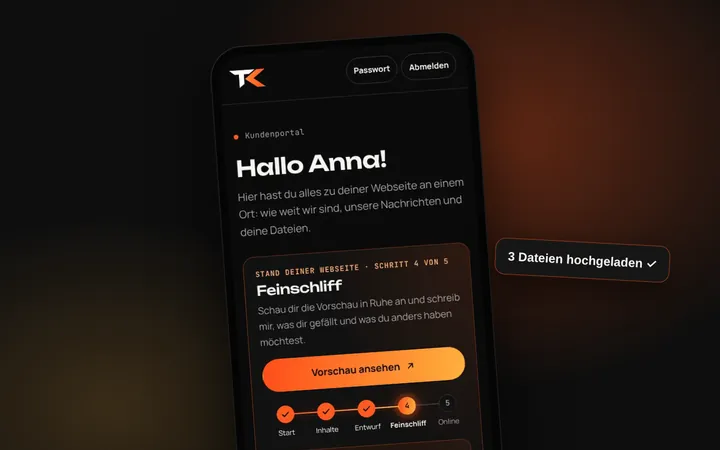
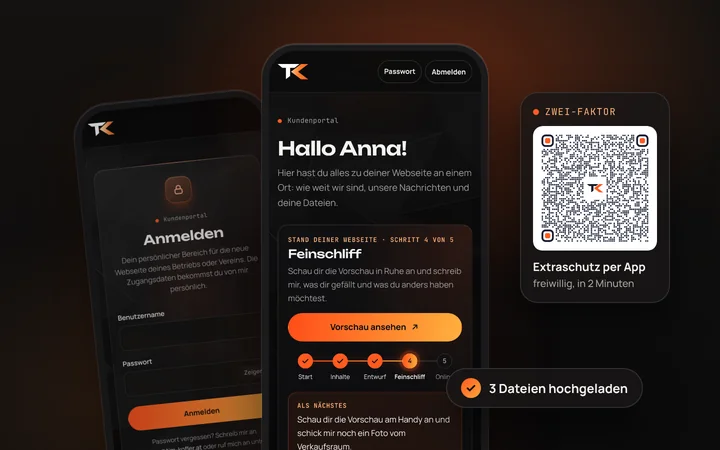
Startseite: neues Vorschaubild für das Kundenportal (Anmeldung, Projektstand, Zwei-Faktor-QR)
Frische Handy-Screenshots des aktuellen Portals mit dem erfundenen Beispielkunden,
als WebP, ?v=2 gegen den Cache. Skripte zum Neumachen in quellen/kundenportal-vorschau/.

Claude-Session: https://claude.ai/code/session_01DfWVMFxYcuoeafePNmQbjb

diff --git a/quellen/kundenportal-vorschau/vorschau.html b/quellen/kundenportal-vorschau/vorschau.html
@@ -1,0 +1,28 @@
+<!doctype html><html><head><meta charset="utf-8"><style>
+@font-face{font-family:M;src:url(/assets/fonts/manrope.woff2)}
+@font-face{font-family:J;src:url(/assets/fonts/jetbrains-mono.woff2)}
+*{box-sizing:border-box;margin:0}
+html,body{width:720px;height:450px;overflow:hidden;background:#0b0b0c}
+.st{position:relative;width:720px;height:450px;overflow:hidden;
+ background:radial-gradient(420px 300px at 62% 18%,rgba(255,90,31,.30),transparent 70%),radial-gradient(360px 260px at 18% 90%,rgba(255,140,60,.12),transparent 70%),linear-gradient(180deg,#141210,#0b0b0c)}
+.ph{position:absolute;border-radius:34px;background:#1a1a1c;padding:7px;box-shadow:0 0 0 1px rgba(255,255,255,.10),0 30px 60px rgba(0,0,0,.6),0 0 80px rgba(255,90,31,.10)}
+.ph img{display:block;width:100%;border-radius:27px}
+.ph::after{content:"";position:absolute;inset:0;border-radius:34px;box-shadow:inset 0 1px 0 rgba(255,255,255,.14);pointer-events:none}
+.p1{left:92px;top:96px;width:196px;transform:rotate(-6deg);opacity:.92;filter:saturate(.95) brightness(.85)}
+.p2{left:262px;top:44px;width:226px}
+.card{position:absolute;background:rgba(24,22,22,.82);backdrop-filter:blur(8px);border:1px solid rgba(255,255,255,.12);border-radius:18px;box-shadow:0 18px 40px rgba(0,0,0,.55);color:#f4f1ee;font-family:M}
+.qr{left:520px;top:92px;width:150px;padding:12px}
+.qr img{display:block;width:100%;border-radius:10px}
+.k{font-family:J;font-size:9.5px;letter-spacing:.08em;text-transform:uppercase;color:#ffb27a;margin-bottom:8px;display:flex;align-items:center;gap:6px}
+.k i{width:6px;height:6px;border-radius:50%;background:#ff5a1f;display:inline-block}
+.qr p{font-size:11.5px;font-weight:700;margin-top:9px;line-height:1.3}
+.qr small{display:block;font-size:10px;color:#a9a39d;font-weight:500;margin-top:2px}
+.chip{left:446px;top:368px;padding:9px 14px;font-size:12.5px;font-weight:700;display:flex;align-items:center;gap:8px;border-radius:999px}
+.chip b{width:20px;height:20px;border-radius:50%;background:linear-gradient(135deg,#ff5a1f,#ffa53a);display:grid;place-items:center}
+.chip b svg{width:12px;height:12px}
+</style></head><body><div class="st">
+<div class="ph p1"><img src="login.png"></div>
+<div class="ph p2"><img src="dash2.png"></div>
+<div class="card qr"><div class="k"><i></i>Zwei-Faktor</div><img src="qr.png"><p>Extraschutz per App<small>freiwillig, in 2 Minuten</small></p></div>
+<div class="card chip"><b><svg viewBox="0 0 24 24" fill="none" stroke="#1a0d05" stroke-width="3.2" stroke-linecap="round" stroke-linejoin="round"><path d="M5 12.5l4.5 4.5L19 7.5"/></svg></b>3 Dateien hochgeladen</div>
+</div></body></html>

diff --git a/quellen/kundenportal-vorschau/shots.js b/quellen/kundenportal-vorschau/shots.js
@@ -1,0 +1,25 @@
+// Screenshots fürs Vorschaubild: Anmeldung, Startansicht nach drei Uploads, QR-Code der Zwei-Faktor-Anmeldung. Aufruf: node shots.js <arbeitsordner>
+const { chromium } = require('/opt/node22/lib/node_modules/playwright');
+const B='http://localhost:8096', O=process.argv[2];
+(async()=>{
+ const b=await chromium.launch({args:['--no-proxy-server']});
+ const ctx=await b.newContext({viewport:{width:390,height:844},deviceScaleFactor:2,isMobile:true,hasTouch:true});
+ const p=await ctx.newPage();
+ await p.goto(B+'/kunden/'); await p.waitForLoadState('networkidle'); await p.waitForTimeout(1500);
+ await p.screenshot({path:O+'/login.png'});
+ await p.fill('input[name=benutzer]','baeckerei-muster'); await p.fill('input[name=passwort]','kornspitz-2026');
+ await p.click('button[type=submit]'); await p.waitForLoadState('networkidle');
+ await p.click('[data-kp-tab=dateien]'); await p.waitForTimeout(400);
+ await p.setInputFiles('.kp-pick input',[O+'/up/kornspitz.jpg',O+'/up/verkaufsraum.jpg',O+'/up/logo-baeckerei.png']);
+ await p.check('.kp-upload .form__check input').catch(()=>p.click('.kp-upload .form__check input'));
+ await p.click('.kp-upload button[type=submit]');
+ await p.waitForFunction(()=>!!document.querySelector('.form__status.is-ok'),null,{timeout:30000});
+ await p.goto(B+'/kunden/'); await p.waitForLoadState('networkidle'); await p.waitForTimeout(1500);
+ await p.screenshot({path:O+'/dash2.png'});
+ await p.click('[data-kp-tab=dateien]'); await p.waitForTimeout(500);
+ const tf=p.locator('#zweifaktor summary, #zweifaktor').first(); await tf.click().catch(()=>{}); await p.waitForTimeout(800);
+ await p.evaluate(()=>document.querySelectorAll('details').forEach(d=>{if(d.closest('#zweifaktor')||d.id==='zweifaktor')d.open=true})); await p.waitForTimeout(800);
+ const q=p.locator('.kp-qr').first(); await q.scrollIntoViewIfNeeded(); await p.waitForTimeout(500);
+ await q.screenshot({path:O+'/qr.png'});
+ await b.close();
+})();

diff --git a/webdesign/index.html b/webdesign/index.html
@@ -473,7 +473,7 @@
           <span class="tk-try__body"><span class="rule__k">Betriebs-Dashboard</span><b>Handwerksbetrieb</b><span class="tk-try__p">Aufträge, Plantafel, Stunden und Rechnungen in einem Fenster.</span><span class="tk-try__go">Ausprobieren <svg viewBox="0 0 24 24" fill="none" stroke="currentColor" stroke-width="2" stroke-linecap="round" stroke-linejoin="round" aria-hidden="true"><path d="M5 12h14M13 6l6 6-6 6"/></svg></span></span>
         </a></li>
         <li><a class="tk-try" href="/ablauf/#portal">
-          <span class="tk-try__shot"><span class="tk-ex__bar" aria-hidden="true"><i></i><i></i><i></i><span>tim-kofler.at/kunden</span></span><img src="/assets/img/apps/kundenportal.webp" alt="Kundenportal am Handy: Projektstand, Nachrichten und Uploads" width="720" height="450" loading="lazy"></span>
+          <span class="tk-try__shot"><span class="tk-ex__bar" aria-hidden="true"><i></i><i></i><i></i><span>tim-kofler.at/kunden</span></span><img src="/assets/img/apps/kundenportal.webp?v=2" alt="Kundenportal am Handy: Anmeldung, Projektstand, Zwei-Faktor-Schutz und Uploads" width="720" height="450" loading="lazy"></span>
           <span class="tk-try__body"><span class="rule__k">Login-Bereich</span><b>Mein Kundenportal</b><span class="tk-try__p">Hier sehen meine Kunden den Stand und laden Dateien hoch.</span><span class="tk-try__go">Ausprobieren <svg viewBox="0 0 24 24" fill="none" stroke="currentColor" stroke-width="2" stroke-linecap="round" stroke-linejoin="round" aria-hidden="true"><path d="M5 12h14M13 6l6 6-6 6"/></svg></span></span>
         </a></li>
         <li><a class="tk-try tk-tryr" href="/beispiele/pension/#buchen" data-tkr>

diff --git a/quellen/kundenportal-vorschau/render.js b/quellen/kundenportal-vorschau/render.js
@@ -1,0 +1,6 @@
+// Setzt vorschau.html (unter http://localhost:8096/_comp/) in doppelter Auflösung zusammen. Aufruf: node render.js comp2x.png
+const { chromium } = require('/opt/node22/lib/node_modules/playwright');
+(async()=>{const b=await chromium.launch({args:['--no-proxy-server']});
+const p=await b.newPage({viewport:{width:720,height:450},deviceScaleFactor:2});
+await p.goto('http://localhost:8096/_comp/'); await p.waitForTimeout(800);
+await p.screenshot({path:process.argv[2]}); await b.close();})();

diff --git a/quellen/kundenportal-vorschau/README.md b/quellen/kundenportal-vorschau/README.md
@@ -1,0 +1,14 @@
+# Vorschaubild „Mein Kundenportal“ (Startseite, Abschnitt Web-Apps)
+
+Ergebnis: `webdesign/assets/img/apps/kundenportal.webp` (720 × 450). Echte Screenshots des Portals am Handy
+(390 × 844, doppelte Auflösung) mit dem erfundenen Beispielkunden „Anna Muster, Bäckerei Muster“, keine echten Kundendaten.
+Zu sehen: Anmeldung (Glas-Karte), Startansicht mit Projektstand, QR-Code der Zwei-Faktor-Anmeldung und ein Upload-Hinweis.
+Die drei hochgeladenen Dateien sind einfarbige Platzhalter.
+
+Neu machen:
+
+1. Portal lokal starten und Beispielkunden anlegen wie in `quellen/kundenportal-video/README.md` (Schritte 1–3, Port 8096).
+2. Platzhalter `up/kornspitz.jpg`, `up/verkaufsraum.jpg`, `up/logo-baeckerei.png` im Arbeitsordner anlegen.
+3. `node shots.js <arbeitsordner>` macht `login.png`, `dash2.png` und `qr.png`, die Anmeldeseite noch vor dem Einloggen.
+4. `vorschau.html` mit den drei Bildern in einen Ordner `_comp/` der Kopie legen, `node render.js comp2x.png`.
+5. Auf 720 × 450 verkleinern und als WebP (Qualität 84) speichern, danach `?v=` in `webdesign/index.html` erhöhen.
